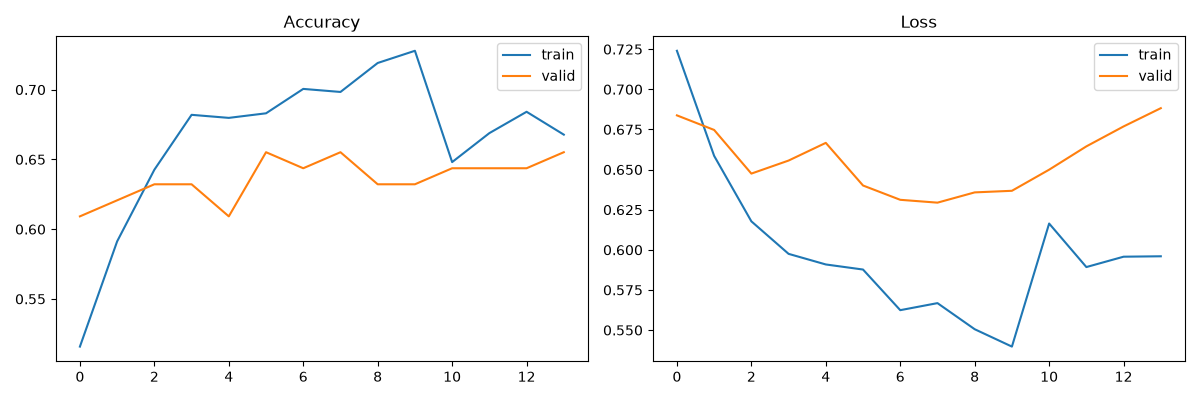
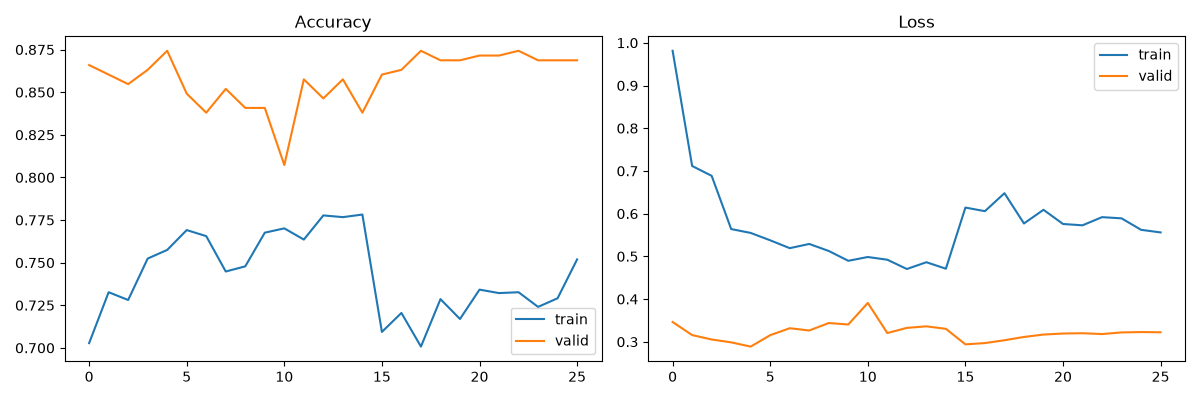
Retrain: 72% -> 89% accuracy with 2502-image expanded dataset
- Added Defectos y madurez (Disease) + Paltas por categoria (Health/Disease)
- Dataset: 1045 -> 2502 images; train: 915 -> 1975
- Model head: BN + Dense(256) + Dropout for more capacity
- Class weights (Disease 0.76, Healthy 1.46) to fix imbalance
- UNFREEZE=20 layers (vs 60 that caused overfitting before)
- Test set: Disease 96% precision, 90% recall; overall 89% accuracy

diff --git a/training/prepare_new_data.py b/training/prepare_new_data.py
@@ -1,0 +1,103 @@
+"""
+Merges new COCO-format datasets into data/Avocado Augmneted_Dataset/.
+
+Label mapping:
+  palta_categoria_1, palta_madura  -> Healthy
+  palta_descarte                   -> Disease
+  Defectos-y-madurez-Paltas-Hass   -> Disease  (all annotated images)
+
+AVOCADO UNO (RP1-RP5) is intentionally skipped: class semantics unclear.
+"""
+import json
+import os
+import shutil
+from collections import Counter, defaultdict
+from pathlib import Path
+
+BASE_DIR = Path(__file__).parent.parent
+DATA_DIR = BASE_DIR / "data" / "Avocado Augmneted_Dataset"
+HASSIA_DB = BASE_DIR / "Hassia Database" / "extracted"
+
+PALTAS_MAP = {
+    "palta_categoria_1": "Healthy",
+    "palta_madura": "Healthy",
+    "palta_descarte": "Disease",
+    # "paltas" generic bbox → skip
+}
+
+DEFECTOS_MAP = {
+    "Defectos-y-madurez-Paltas-Hass": "Disease",
+}
+
+
+def copy_from_coco(dataset_dir: Path, cat_map: dict, split: str, prefix: str) -> dict:
+    ann_path = dataset_dir / split / "_annotations.coco.json"
+    if not ann_path.exists():
+        return {}
+
+    with open(ann_path, encoding="utf-8") as f:
+        data = json.load(f)
+
+    cats = {c["id"]: c["name"] for c in data["categories"]}
+    img_id_to_file = {img["id"]: img["file_name"] for img in data["images"]}
+
+    # Collect class votes per image from annotations
+    img_votes: dict = defaultdict(list)
+    for ann in data["annotations"]:
+        cname = cats.get(ann["category_id"], "")
+        our_class = cat_map.get(cname)
+        if our_class:
+            img_votes[ann["image_id"]].append(our_class)
+
+    # For single-class datasets (Defectos) assign all images that have any annotation
+    copied: dict = Counter()
+    for img_id, fname in img_id_to_file.items():
+        if img_id not in img_votes:
+            continue
+        dominant = Counter(img_votes[img_id]).most_common(1)[0][0]
+        src = dataset_dir / split / fname
+        if not src.exists():
+            continue
+        dst_dir = DATA_DIR / split / dominant
+        dst_dir.mkdir(parents=True, exist_ok=True)
+        # Use a prefix + original name to avoid collisions
+        safe_name = f"{prefix}_{fname}"
+        dst = dst_dir / safe_name
+        if not dst.exists():
+            shutil.copy2(src, dst)
+            copied[dominant] += 1
+
+    return dict(copied)
+
+
+def main():
+    grand_total = 0
+    for split in ["train", "valid", "test"]:
+        print(f"\n=== {split} ===")
+
+        counts = copy_from_coco(
+            HASSIA_DB / "Paltas por categoria",
+            PALTAS_MAP, split, prefix="palcat"
+        )
+        print(f"  Paltas por categoria: {counts}")
+        grand_total += sum(counts.values())
+
+        counts = copy_from_coco(
+            HASSIA_DB / "Defectos y madurez - Paltas Hass",
+            DEFECTOS_MAP, split, prefix="defect"
+        )
+        print(f"  Defectos y madurez:   {counts}")
+        grand_total += sum(counts.values())
+
+    print(f"\nTotal new images copied: {grand_total}")
+
+    print("\n=== Final dataset counts ===")
+    for split in ["train", "valid", "test"]:
+        for cls in ["Disease", "Healthy"]:
+            p = DATA_DIR / split / cls
+            count = len(list(p.glob("*.*"))) if p.exists() else 0
+            print(f"  {split:5s} / {cls:8s}: {count}")
+
+
+if __name__ == "__main__":
+    main()

diff --git a/training/train.py b/training/train.py
@@ -14,11 +14,29 @@ import tensorflow as tf
 import matplotlib
 matplotlib.use("Agg")
 import matplotlib.pyplot as plt
+from pathlib import Path
 from sklearn.metrics import classification_report, confusion_matrix, ConfusionMatrixDisplay
+from sklearn.utils.class_weight import compute_class_weight
 
 import config
 from training.dataset import load_datasets
 from training.model import build_model, compile_for_frozen_training, compile_for_fine_tuning
+
+
+def compute_weights(class_names):
+    """Count files on disk to compute balanced class weights."""
+    counts = []
+    for cls in class_names:
+        p = Path(config.TRAIN_DIR) / cls
+        counts.append(len(list(p.glob("*.*"))))
+    labels = []
+    for i, c in enumerate(counts):
+        labels.extend([i] * c)
+    labels = np.array(labels)
+    weights = compute_class_weight("balanced", classes=np.unique(labels), y=labels)
+    cw = dict(enumerate(weights))
+    print(f"Class weights: { {class_names[i]: round(w, 3) for i, w in cw.items()} }")
+    return cw
 
 
 def plot_history(history_frozen, history_fine_tune):
@@ -73,6 +91,8 @@ def main():
     with open(config.CLASS_NAMES_PATH, "w", encoding="utf-8") as f:
         json.dump(class_names, f, ensure_ascii=False, indent=2)
 
+    class_weight = compute_weights(class_names)
+
     model, base = build_model(num_classes=len(class_names))
 
     compile_for_frozen_training(model)
@@ -82,10 +102,11 @@ def main():
         train_ds,
         validation_data=valid_ds,
         epochs=config.EPOCHS_FROZEN,
+        class_weight=class_weight,
         callbacks=[
             tf.keras.callbacks.EarlyStopping(
                 patience=config.EARLY_STOPPING_PATIENCE, restore_best_weights=True
-            )
+            ),
         ],
     )
 
@@ -95,6 +116,7 @@ def main():
         train_ds,
         validation_data=valid_ds,
         epochs=config.EPOCHS_FINE_TUNE,
+        class_weight=class_weight,
         callbacks=[
             tf.keras.callbacks.EarlyStopping(
                 patience=config.EARLY_STOPPING_PATIENCE, restore_best_weights=True
@@ -102,7 +124,9 @@ def main():
             tf.keras.callbacks.ReduceLROnPlateau(
                 monitor="val_loss", factor=0.5, patience=4, min_lr=1e-7
             ),
-            tf.keras.callbacks.ModelCheckpoint(config.MODEL_PATH, save_best_only=True, monitor="val_accuracy"),
+            tf.keras.callbacks.ModelCheckpoint(
+                config.MODEL_PATH, save_best_only=True, monitor="val_accuracy"
+            ),
         ],
     )
 

diff --git a/config.py b/config.py
@@ -24,13 +24,13 @@ CLASSIFICATION_REPORT_PATH = os.path.join(MODEL_DIR, "classification_report.txt"
 
 # Model / training hyperparameters
 IMG_SIZE = (224, 224)
-BATCH_SIZE = 16          # smaller batch helps on a ~1000-image dataset
-EPOCHS_FROZEN = int(os.environ.get("HASSIA_EPOCHS_FROZEN", 25))      # head-only training with the backbone frozen
-EPOCHS_FINE_TUNE = int(os.environ.get("HASSIA_EPOCHS_FINE_TUNE", 40))  # fine-tuning with the top backbone layers unfrozen
+BATCH_SIZE = 32
+EPOCHS_FROZEN = int(os.environ.get("HASSIA_EPOCHS_FROZEN", 30))
+EPOCHS_FINE_TUNE = int(os.environ.get("HASSIA_EPOCHS_FINE_TUNE", 50))
 LEARNING_RATE_FROZEN = 1e-3
-LEARNING_RATE_FINE_TUNE = 1e-5
-EARLY_STOPPING_PATIENCE = int(os.environ.get("HASSIA_PATIENCE", 8))
-UNFREEZE_LAST_N_LAYERS = int(os.environ.get("HASSIA_UNFREEZE", 60))  # how many backbone layers to unfreeze during fine-tuning
+LEARNING_RATE_FINE_TUNE = 5e-6
+EARLY_STOPPING_PATIENCE = int(os.environ.get("HASSIA_PATIENCE", 10))
+UNFREEZE_LAST_N_LAYERS = int(os.environ.get("HASSIA_UNFREEZE", 20))
 BACKBONE = os.environ.get("HASSIA_BACKBONE", "efficientnetb0")  # "efficientnetb0" or "resnet50"
 
 # Live-video detection (phase 2): color/contour segmentation finds candidate

diff --git a/training/dataset.py b/training/dataset.py
@@ -33,8 +33,9 @@ def load_datasets():
         tf.keras.layers.RandomBrightness(0.2),
         tf.keras.layers.RandomTranslation(0.1, 0.1),
     ])
-    train_ds = train_ds.map(lambda x, y: (augment(x, training=True), y))
-
+    train_ds = train_ds.map(lambda x, y: (augment(x, training=True), y),
+                            num_parallel_calls=tf.data.AUTOTUNE)
+    train_ds = train_ds.shuffle(buffer_size=512, reshuffle_each_iteration=True)
     train_ds = train_ds.prefetch(tf.data.AUTOTUNE)
     valid_ds = valid_ds.prefetch(tf.data.AUTOTUNE)
     test_ds = test_ds.prefetch(tf.data.AUTOTUNE)

diff --git a/training/model.py b/training/model.py
@@ -30,6 +30,10 @@ def build_model(num_classes):
     x = preprocess(inputs)
     x = base(x, training=False)
     x = tf.keras.layers.GlobalAveragePooling2D()(x)
+    x = tf.keras.layers.BatchNormalization()(x)
+    x = tf.keras.layers.Dropout(0.4)(x)
+    x = tf.keras.layers.Dense(256, activation="relu",
+                               kernel_regularizer=tf.keras.regularizers.l2(1e-4))(x)
     x = tf.keras.layers.Dropout(0.3)(x)
     outputs = tf.keras.layers.Dense(num_classes, activation="softmax")(x)
     model = tf.keras.Model(inputs, outputs)